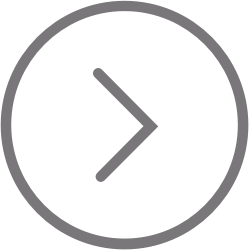
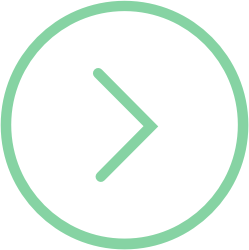
styling added with color

Changed region(s): [[0.0, 0.0, 1.0, 1.0], [0.3655, 0.252, 0.6466, 0.728]]

diff --git a/public/projects.html b/public/projects.html
@@ -18,16 +18,16 @@
 
 <body>
 	<header>
-		<nav class="navbar fixed-top navbar-expand-lg navbar-light ">
+		<nav class="navbar fixed-top navbar-expand-lg navbar-dark ">
 			 <div class="container">
 				<button class="navbar-toggler d-lg-none" type="button" data-toggle="collapse" data-target="#navbarsExampleDefault" aria-controls="navbarsExampleDefault" aria-expanded="false" aria-label="Toggle navigation">
 	            <span class="navbar-toggler-icon"></span>
 	            </button>
-			  	<div class="collapse navbar-collapse" id="navbarsExampleDefault">
+			  	<div class="collapse navbar-collapse navbar-light" id="navbarsExampleDefault">
 			    	<div class="navbar-nav">
-			      		<a class="nav-item nav-link" href="/" id="nav-home">67-240</a>
-			      		<a class="nav-item nav-link active" href="/projects">Projects <span class="sr-only">(current)</span></a>
-			      		<a class="nav-item nav-link" href="/syllabus">Syllabus</a>
+			      		<a class="nav-item nav-link" href="/" id="nav-home">Home <span class="divider">|</span> </a>
+			      		<a class="nav-item nav-link active" href="/projects">Projects <span class="divider">|</span></a>
+			      		<a class="nav-item nav-link" href="/syllabus">Syllabus <span class="divider">|</span> </a>
 			      		<a class="nav-item nav-link" href="/speakers">Speakers</a>
 			    	</div>
 			  	</div>
@@ -51,6 +51,7 @@
 				<div class="card text-center" style="width: 25rem;">
 			  		<img class="card-img-top mx-auto" id="card-img-id" src="images/project5/screen1.png" alt="Card image cap" >
 			  		<div class="card-body">
+			  			<hr id="card-line">
 			  			<h5> IS Course Page Redesign Project </h5>
 			    		<p class="card-text">Maddy Cha, Monica Chang</p>
 			    		<button id="show-project" value="5" type="button" class="btn btn-outline-primary show-project">View</button>
@@ -61,6 +62,7 @@
 				<div class="card text-center" style="width: 25rem;">
 			  		<img class="card-img-top mx-auto" id="card-img-id" src="images/project6/main.png" alt="Card image cap">
 			  		<div class="card-body">
+			  			<hr id="card-line">
 			  			<h5> CMU Dining Services </h5>
 			    		<p class="card-text">Penelope McKeefry, Rachel Wong</p>
 			    		<button id="show-project" value="6" type="button" class="btn btn-outline-primary show-project">View</button>
@@ -73,6 +75,7 @@
 				<div class="card text-center" style="width: 25rem;">
 			  		<img class="card-img-top mx-auto" id="card-img-id" src="images/project7/screen1.png" alt="Card image cap">
 			  		<div class="card-body">
+			  			<hr id="card-line">
 			  			<h5> CMU Dining Locations</h5>
 			    		<p class="card-text">Malik Khan, Mimi Niou, Roxanne Zhang</p>
 			    		<button id="show-project" value="7" type="button" class="btn btn-outline-primary show-project">View</button>
@@ -83,6 +86,7 @@
 				<div class="card text-center" style="width: 25rem;">
 			  		<img class="card-img-top mx-auto" id="card-img-id" src="images/project8/screen1.png" alt="Card image cap">
 			  		<div class="card-body">
+			  			<hr id="card-line">
 			  			<h5> Core Curriculum Page Redesign </h5>
 			    		<p class="card-text">Arnav Jain, Andrew Lee</p>
 			    		<button id="show-project" value="8" type="button" class="btn btn-outline-primary show-project">View</button>
@@ -95,6 +99,7 @@
 				<div class="card text-center" style="width: 25rem;">
 			  		<img class="card-img-top mx-auto" id="card-img-id" src="images/project9/screen1.png" alt="Card image cap">
 			  		<div class="card-body">
+			  			<hr id="card-line">
 			  			<h5> Core Curriculum Page Redesign</h5>
 			    		<p class="card-text">Christina Jin, Hera Miao, Andrew Wang</p>
 			    		<button id="show-project" value="9" type="button" class="btn btn-outline-primary show-project">View</button>
@@ -105,6 +110,7 @@
 				<div class="card text-center" style="width: 25rem;">
 			  		<img class="card-img-top mx-auto" id="card-img-id" src="images/project10/screen1.png" alt="Card image cap">
 			  		<div class="card-body">
+			  			<hr id="card-line">
 			  			<h5> Redesign for Dining Services Portal </h5>
 			    		<p class="card-text">Margret Williams, Zoe Teoh, Kohei Arai</p>
 			    		<button id="show-project" value="10" type="button" class="btn btn-outline-primary show-project">View</button>
@@ -118,6 +124,7 @@
 				<div class="card text-center" style="width: 25rem;">
 			  		<img class="card-img-top mx-auto" id="card-img-id" src="images/project1/project4-1.png" alt="Card image cap" >
 			  		<div class="card-body">
+			  			<hr id="card-line">
 			  			<h5> Interactive Postgraduate Information </h5>
 			    		<p class="card-text">Casey Al-Haddad, Anny Fan, Vicky Ye, Stella Yuan</p>
 			    		<button id="show-project" value="1" type="button" class="btn btn-outline-primary show-project">View</button>
@@ -128,6 +135,7 @@
 				<div class="card text-center" style="width: 25rem;">
 			  		<img class="card-img-top mx-auto" id="card-img-id" src="images/project2/Group5.png" alt="Card image cap">
 			  		<div class="card-body">
+			  			<hr id="card-line">
 			  			<h5> Remodeling the 67-373 Project Showcase Website </h5>
 			    		<p class="card-text">Ryan Eckert, Ameeshi Goel, Patrick Tan</p>
 			    		<button id="show-project" value="2" type="button" class="btn btn-outline-primary show-project">View</button>
@@ -140,6 +148,7 @@
 				<div class="card text-center" style="width: 25rem;">
 			  		<img class="card-img-top mx-auto" id="card-img-id" src="images/project3/screen1.png"alt="Card image cap">
 			  		<div class="card-body">
+			  			<hr id="card-line">
 			  			<h5> Redesign of Software Development Project PDF</h5>
 			    		<p class="card-text">Zoe Feng, Arnav Luthra, Abbey Mui, Pooja Penninti</p>
 			    		<button id="show-project" value="3" type="button" class="btn btn-outline-primary show-project">View</button>
@@ -150,6 +159,7 @@
 				<div class="card text-center" style="width: 25rem;">
 			  		<img class="card-img-top mx-auto" id="card-img-id" src="images/project4/screen1.png" alt="Card image cap">
 			  		<div class="card-body">
+			  			<hr id="card-line">
 			  			<h5> Carnegie Mellon Information Systems Post-Graduate Statistics Redesign </h5>
 			    		<p class="card-text">Angela Xie, Christie Chang, Warren Glasner</p><br>
 			    		<button id="show-project" value="4" type="button" class="btn btn-outline-primary show-project">View</button>
@@ -163,6 +173,7 @@
 				<div class="card text-center" style="width: 25rem;">
 			  		<img class="card-img-top mx-auto" id="card-img-id" src="images/project3.png" alt="Card image cap">
 			  		<div class="card-body">
+			  			<hr id="card-line">
 			  			<h5> Project Name </h5>
 			    		<p class="card-text">Some quick example text to build on the card title and make up the bulk of the card's content.</p>
 			    		<a href="project-show.html" class="btn btn-outline-primary">View</a>
@@ -173,6 +184,7 @@
 				<div class="card text-center" style="width: 25rem;">
 			  		<img class="card-img-top mx-auto" id="card-img-id" src="images/project3.png" alt="Card image cap">
 			  		<div class="card-body">
+			  			<hr id="card-line">
 			  			<h5> Project Name </h5>
 			    		<p class="card-text">Some quick example text to build on the card title and make up the bulk of the card's content.</p>
 			    		<a href="project-show.html" class="btn btn-outline-primary">View</a>
@@ -185,6 +197,7 @@
 				<div class="card text-center" style="width: 25rem;">
 			  		<img class="card-img-top mx-auto" id="card-img-id" src="images/project3.png"alt="Card image cap">
 			  		<div class="card-body">
+			  			<hr id="card-line">
 			  			<h5> Project Name </h5>
 			    		<p class="card-text">Some quick example text to build on the card title and make up the bulk of the card's content.</p>
 			    		<a href="project-show.html" class="btn btn-outline-primary">View</a>
@@ -195,6 +208,7 @@
 				<div class="card text-center" id="card-img-id" style="width: 25rem;">
 			  		<img class="card-img-top mx-auto" src="images/project3.png" alt="Card image cap">
 			  		<div class="card-body">
+			  			<hr id="card-line">
 			  			<h5> Project Name </h5>
 			    		<p class="card-text">Some quick example text to build on the card title and make up the bulk of the card's content.</p>
 			    		<a href="project-show.html" class="btn btn-outline-primary">View</a>

diff --git a/public/speakers.html b/public/speakers.html
@@ -17,16 +17,16 @@
 
 <body>
 	<header>
-		<nav class="navbar fixed-top navbar-expand-lg navbar-light">
+		<nav class="navbar fixed-top navbar-expand-lg navbar-dark ">
 			 <div class="container">
 				<button class="navbar-toggler d-lg-none" type="button" data-toggle="collapse" data-target="#navbarsExampleDefault" aria-controls="navbarsExampleDefault" aria-expanded="false" aria-label="Toggle navigation">
 	            <span class="navbar-toggler-icon"></span>
 	            </button>
-			  	<div class="collapse navbar-collapse" id="navbarsExampleDefault">
+			  	<div class="collapse navbar-collapse navbar-light" id="navbarsExampleDefault">
 			    	<div class="navbar-nav">
-			      		<a class="nav-item nav-link" href="/" id="nav-home">67-240</a>
-			      		<a class="nav-item nav-link" href="/projects">Projects <span class="sr-only">(current)</span></a>
-			      		<a class="nav-item nav-link" href="/syllabus">Syllabus</a>
+			      		<a class="nav-item nav-link" href="/" id="nav-home">Home <span class="divider">|</span> </a>
+			      		<a class="nav-item nav-link" href="/projects">Projects <span class="divider">|</span> </a>
+			      		<a class="nav-item nav-link" href="/syllabus">Syllabus <span class="divider">|</span> </a>
 			      		<a class="nav-item nav-link active" href="/speakers">Speakers</a>
 			    	</div>
 			  	</div>
@@ -43,7 +43,7 @@
 			</div>
 			<div class="col-md" align="left">
 				<h4> Jane Doe </h4>
-				<p> Software Engineer at Google <p>
+				<p id="job-position"> Software Engineer at Google <p>
 				<p> Description about the person and what they talked about Description about the person and what they talked about Description about the person and what they talked about Description about the person and what they talked about Description about the person and what they talked about Description about the person and what they talked about Description about the person and what they talked about </p>
 			</div>
 		</div><hr><br>
@@ -54,7 +54,7 @@
 			</div>
 			<div class="col-md" align="left">
 				<h4> Jane Doe </h4>
-				<p> Software Engineer at Google <p>
+				<p id="job-position"> Software Engineer at Google <p>
 				<p> Description about the person and what they talked about Description about the person and what they talked about Description about the person and what they talked about Description about the person and what they talked about Description about the person and what they talked about Description about the person and what they talked about Description about the person and what they talked about </p>
 			</div>
 		</div><hr><br>
@@ -65,7 +65,7 @@
 			</div>
 			<div class="col-md" align="left">
 				<h4> Jane Doe </h4>
-				<p> Software Engineer at Google <p>
+				<p id="job-position"> Software Engineer at Google <p>
 				<p> Description about the person and what they talked about Description about the person and what they talked about Description about the person and what they talked about Description about the person and what they talked about Description about the person and what they talked about Description about the person and what they talked about Description about the person and what they talked about </p>
 			</div>
 		</div>

diff --git a/public/style.css b/public/style.css
@@ -9,37 +9,60 @@ body {
 h1 {
 	font-family: 'Lora', serif;
 	font-size: 3em;
+	color: #101049;
 }
 
 h4, h5 {
 	font-family: 'Lora', serif;
 	font-weight:bold;
+	color: #101049;
+}
+h4 {
+	color: #101049 !important;
 }
 
 p, li {
 	font-family: 'Nanum Gothic', sans-serif;
+	color: #101049;
+	
 }
 
 a {
 	font-family: 'Nanum Gothic', sans-serif;
 	font-weight:bold;
+	color:#86D4A3;
 }
-
+#job-position{
+	color:#86D4A3;
+}
 a:hover{
 	color: #b11a21;
 }
 
 .navbar {
 	margin-bottom: 5%;
-	background-color: #f1f0ee;
+	background-color: #101049;
+	text-align: center;
+
 }
 .nav-link{
-	color: #e0474c;
+	color: #FFFFFF !important;
+    text-align: center;
+
+}
+.navbar-nav {
+    float:none;
+    margin:0 auto;
+	text-align: center;
 }
 
-.nav-link.active{
-	color: #b11a21;
+
+
+.nav-link.active {
+	color:#86D4A3 !important;
+	font-weight: bolder;
 }
+
 
 img {
 	width:100%;
@@ -47,8 +70,8 @@ img {
 
 .card {
 	margin: 4%;
-	background-color:#f1f0ee;
-	border:0.5;
+	border-color: #101049;
+	border:3 !important;
 }	
 
 
@@ -60,6 +83,14 @@ img {
 /*	color:white;*/
 }
 
+hr {
+	border-color:#86D4A3;
+}
+
+#card-line {
+	margin-top:0;
+	margin-bottom:3%;
+}
 
 
 .carousel-caption {
@@ -126,11 +157,33 @@ img {
     height: 20vw;
     object-fit: cover;
     align:center;
+}
 
+.card-body{
+	border:2;
+	border-color: #86D4A3;
 
 }
-#card-img-id {
-	
+
+.btn-outline-primary, .btn-outline:active, .btn-outline-primary:visited {
+    background-color: #86D4A3 !important;
+	color:white !important;
+    border-color:#86D4A3 !important;
+ 
+}
+.btn-outline-primary:hover{
+	border-color:#86D4A3 !important;
+    color:#86D4A3!important;
+    background-color:white !important;
+}
+#logo {
+	height:45px;
+	width:110px;
+}
+
+.divider{
+	color:#86D4A3;
+	margin-left:10px;
 }
 
 @media only screen and (max-width: 575px){
@@ -163,6 +216,9 @@ img {
 		height: 90% !important;
 		width: 90% !important;
 	}
+	#card-line {
+		display:none;
+	}
 
 
 }
@@ -181,6 +237,9 @@ img {
 	#project-show-carousel {
 		height: 80%;
 		width: 80%;
+	}
+	.divider{
+		display:none;
 	}
 
 

diff --git a/public/home.html b/public/home.html
@@ -17,16 +17,16 @@
 
 <body>
 	<header>
-		<nav class="navbar fixed-top navbar-expand-lg navbar-light ">
+		<nav class="navbar fixed-top navbar-expand-lg navbar-dark ">
 			 <div class="container">
 				<button class="navbar-toggler d-lg-none" type="button" data-toggle="collapse" data-target="#navbarsExampleDefault" aria-controls="navbarsExampleDefault" aria-expanded="false" aria-label="Toggle navigation">
 	            <span class="navbar-toggler-icon"></span>
 	            </button>
-			  	<div class="collapse navbar-collapse" id="navbarsExampleDefault">
+			  	<div class="collapse navbar-collapse navbar-light" id="navbarsExampleDefault">
 			    	<div class="navbar-nav">
-			      		<a class="nav-item nav-link active" href="/" id="nav-home">67-240</a>
-			      		<a class="nav-item nav-link" href="/projects">Projects <span class="sr-only">(current)</span></a>
-			      		<a class="nav-item nav-link" href="/syllabus">Syllabus</a>
+			      		<a class="nav-item nav-link active" href="/" id="nav-home">Home <span class="divider">|</span> </a>
+			      		<a class="nav-item nav-link" href="/projects">Projects <span class="divider">|</span> </a>
+			      		<a class="nav-item nav-link" href="/syllabus">Syllabus <span class="divider">|</span> </a>
 			      		<a class="nav-item nav-link" href="/speakers">Speakers</a>
 			    	</div>
 			  	</div>

diff --git a/public/syllabus.html b/public/syllabus.html
@@ -18,16 +18,16 @@
 
 <body>
 	<header>
-		<nav class="navbar fixed-top navbar-expand-lg navbar-light ">
+		<nav class="navbar fixed-top navbar-expand-lg navbar-dark ">
 			 <div class="container">
 				<button class="navbar-toggler d-lg-none" type="button" data-toggle="collapse" data-target="#navbarsExampleDefault" aria-controls="navbarsExampleDefault" aria-expanded="false" aria-label="Toggle navigation">
 	            <span class="navbar-toggler-icon"></span>
 	            </button>
-			  	<div class="collapse navbar-collapse" id="navbarsExampleDefault">
+			  	<div class="collapse navbar-collapse navbar-light" id="navbarsExampleDefault">
 			    	<div class="navbar-nav">
-			      		<a class="nav-item nav-link" href="/" id="nav-home">67-240</a>
-			      		<a class="nav-item nav-link" href="/projects">Projects <span class="sr-only">(current)</span></a>
-			      		<a class="nav-item nav-link active" href="/syllabus">Syllabus</a>
+			      		<a class="nav-item nav-link" href="/" id="nav-home">Home <span class="divider">|</span> </a>
+			      		<a class="nav-item nav-link" href="/projects">Projects <span class="divider">|</span> </a>
+			      		<a class="nav-item nav-link active" href="/syllabus">Syllabus <span class="divider">|</span> </a>
 			      		<a class="nav-item nav-link" href="/speakers">Speakers</a>
 			    	</div>
 			  	</div>
